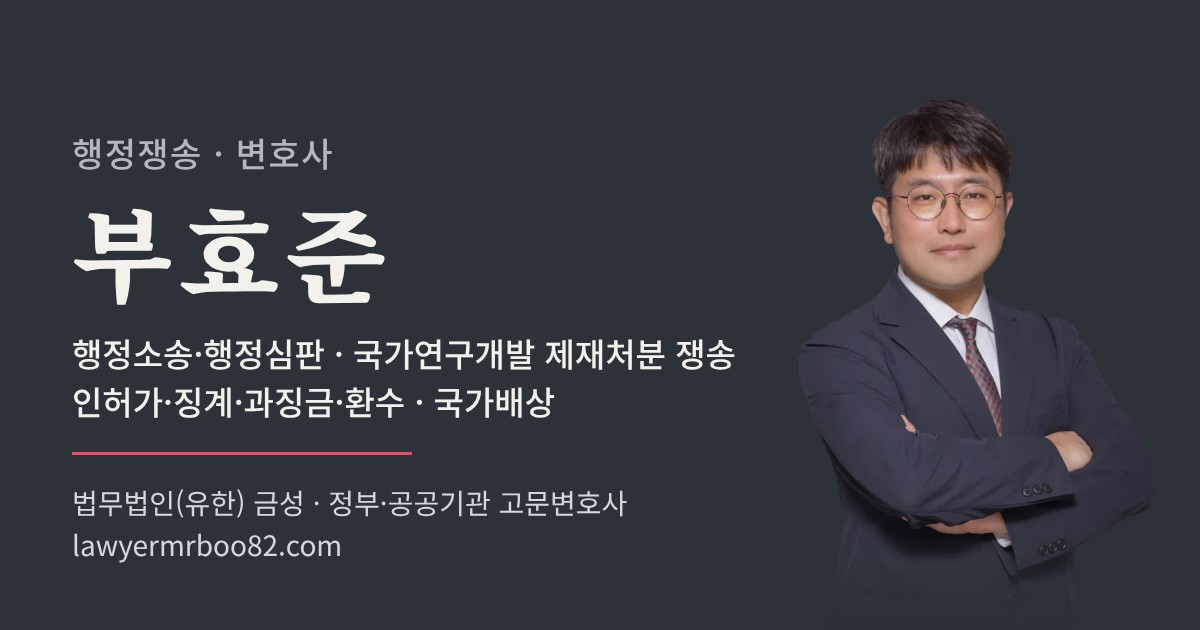
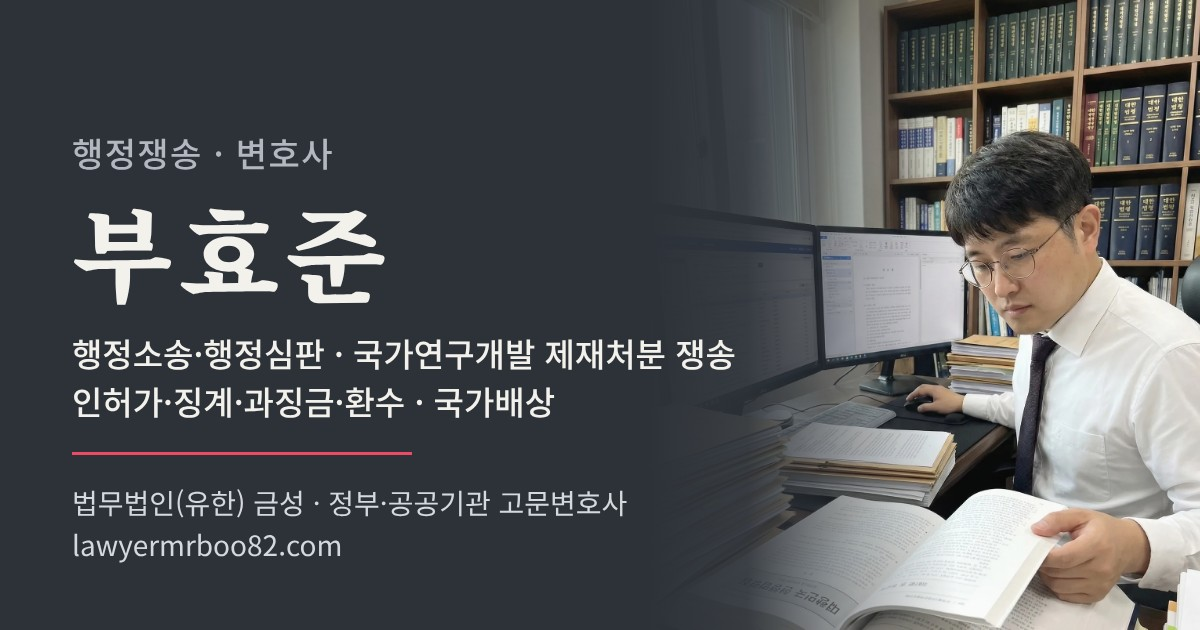
링크 공유 이미지(og-image.jpg)를 첫 화면과 같은 사무실 사진으로 다시 만듦
- work/og_image.html: 오른쪽 누끼 인물 사진 대신 photo-desk-tall.webp를 오른쪽 46%에 깔고 왼쪽을 바탕색으로 녹임(첫 화면 두 단 배치의 오른쪽 판과 같은 방식); 글은 그대로
- og-image.jpg 재생성(1200×630, 125KB)
- 메신저·SNS가 옛 이미지를 캐시하지 않도록 og:image·twitter:image·JSON-LD의 주소에 ?v=2(index·cases·주제 5장·build_cases.py 템플릿)

Claude-Session: https://claude.ai/code/session_01THUocaPHvPWUxxY9KQRVQu

diff --git a/work/og_image.html b/work/og_image.html
@@ -3,20 +3,29 @@
 <head>
 <meta charset="utf-8">
 <!-- 링크 공유용 이미지(og-image.jpg, 1200×630)의 본. work/og_image.py가 이 파일을 크로미움으로 찍어 저장한다.
-     바탕은 첫 화면과 같은 연한 먹색(--hero-bg #2d3239), 글자는 첫 화면의 밝은 색, 밑줄은 어두운 바탕용 크림슨(#ec4b63). -->
+     바탕은 첫 화면과 같은 연한 먹색(--hero-bg #2d3239), 글자는 첫 화면의 밝은 색, 밑줄은 어두운 바탕용 크림슨(#ec4b63).
+     2026. 10. 21. 13시 45분: 오른쪽 누끼 인물 사진(photo-hero.webp) 대신 첫 화면과 같은 사무실 사진(photo-desk-tall.webp — 서가·모니터·판례집을 읽는 모습)을
+     오른쪽 46%에 위아래로 꽉 차게 깔고 왼쪽 가장자리를 바탕색으로 녹인다(첫 화면 두 단 배치의 오른쪽 판과 같은 방식). 글꼴은 Google Fonts가 막힌 환경에서는
+     설치된 Noto Serif/Sans CJK KR로 찍힌다(같은 글꼴). -->
 <link rel="stylesheet" href="https://fonts.googleapis.com/css2?family=Noto+Serif+KR:wght@700;900&family=Noto+Sans+KR:wght@400;500;700&display=swap">
 <style>
   html, body { margin: 0; }
   body { width: 1200px; height: 630px; overflow: hidden; background: #2d3239; color: #f3f1ec; font-family: "Noto Sans KR", "Noto Sans CJK KR", "Malgun Gothic", sans-serif; -webkit-font-smoothing: antialiased; word-break: keep-all; }
   .card { position: relative; width: 1200px; height: 630px; }
-  .copy { position: absolute; left: 72px; top: 128px; width: 760px; }
+  .copy { position: absolute; left: 72px; top: 128px; width: 760px; z-index: 1; }   /* 오른쪽 사진 판 위에 */
   .eyebrow { margin: 0; font-size: 34px; font-weight: 500; letter-spacing: 0.04em; color: #b3b8c0; }
   .name { margin: 18px 0 0; font-family: "Noto Serif KR", "Noto Serif CJK KR", "Batang", serif; font-size: 104px; font-weight: 900; line-height: 1.05; letter-spacing: 0.06em; color: #f3f1ec; } /* 2026. 10. 21.: 홈페이지 이름(노토 명조 900, 자간)과 맞춤 */
   .fields { margin: 26px 0 0; font-size: 33px; font-weight: 500; line-height: 1.45; color: #f3f1ec; }
   .rule { width: 340px; height: 3px; margin: 26px 0 0; background: #ec4b63; }
   .firm { margin: 26px 0 0; font-size: 28px; font-weight: 400; line-height: 1.5; color: #d5d8dc; }
   .domain { margin: 0; font-size: 28px; font-weight: 400; line-height: 1.5; color: #d5d8dc; }
-  .portrait { position: absolute; right: -12px; bottom: 0; height: 580px; width: auto; }
+  .photo {
+    position: absolute; right: 0; top: 0; bottom: 0; width: 46%;
+    background-image:
+      linear-gradient(to right, rgba(45, 50, 57, 1) 0%, rgba(45, 50, 57, 0.92) 18%, rgba(45, 50, 57, 0.4) 38%, rgba(45, 50, 57, 0) 56%),
+      url("../photo-desk-tall.webp");
+    background-size: cover; background-position: 66% 20%; background-repeat: no-repeat;
+  }
 </style>
 </head>
 <body>
@@ -29,7 +38,7 @@
     <p class="firm">법무법인(유한) 금성 · 정부·공공기관 고문변호사</p>
     <p class="domain">lawyermrboo82.com</p>
   </div>
-  <img class="portrait" src="../photo-hero.webp" alt="">
+  <div class="photo"></div>
 </div>
 </body>
 </html>

diff --git a/index.html b/index.html
@@ -32,8 +32,8 @@
 <link rel="apple-touch-icon" href="/apple-touch-icon.png">
 <link rel="manifest" href="/site.webmanifest">
 <meta property="og:url" content="https://lawyermrboo82.com/">
-<meta property="og:image" content="https://lawyermrboo82.com/og-image.jpg">
-<meta property="og:image:secure_url" content="https://lawyermrboo82.com/og-image.jpg">
+<meta property="og:image" content="https://lawyermrboo82.com/og-image.jpg?v=2">
+<meta property="og:image:secure_url" content="https://lawyermrboo82.com/og-image.jpg?v=2">
 <meta property="og:image:type" content="image/jpeg">
 <meta property="og:image:alt" content="변호사 부효준 — 행정쟁송 · 국가연구개발 제재처분">
 <meta property="og:image:width" content="1200">
@@ -41,7 +41,7 @@
 <meta name="twitter:card" content="summary_large_image">
 <meta name="twitter:title" content="변호사 부효준 — 국가연구개발사업 참여제한·연구비 환수·제재부가금 · 행정쟁송">
 <meta name="twitter:description" content="처분의 과정과 변곡점을 제대로 아는 변호사입니다. 국가로펌 출신 · 소송·자문 약 3,300건.">
-<meta name="twitter:image" content="https://lawyermrboo82.com/og-image.jpg">
+<meta name="twitter:image" content="https://lawyermrboo82.com/og-image.jpg?v=2">
 <meta property="og:title" content="변호사 부효준 — 국가연구개발사업 참여제한·연구비 환수·제재부가금 · 행정쟁송">
 <meta property="og:description" content="제재처분을 심의하는 위원회의 위원이자 정부·공공기관 약 20곳의 고문변호사. 행정쟁송 한 분야에 쌓은 전문성으로 처분을 받은 연구자·기업·공무원을 대리하고, 출연금·보조금 관련 형사사건도 함께 변호합니다. 주요 수행 사례와 판결문 공개.">
 <script type="application/ld+json">
@@ -56,7 +56,7 @@
  ],
  "jobTitle": "변호사",
  "url": "https://lawyermrboo82.com/",
- "image": "https://lawyermrboo82.com/og-image.jpg",
+ "image": "https://lawyermrboo82.com/og-image.jpg?v=2",
  "worksFor": {
   "@type": "LegalService",
   "name": "법무법인(유한) 금성",

diff --git a/topics/rnd-stay-of-execution.html b/topics/rnd-stay-of-execution.html
@@ -18,11 +18,11 @@
 <meta property="og:url" content="https://lawyermrboo82.com/topics/rnd-stay-of-execution.html">
 <meta property="og:title" content="참여제한·제재부가금·환수처분 집행정지 사례 — 변호사 부효준">
 <meta property="og:description" content="본안 판결까지 처분의 효력을 멈추는 집행정지·효력정지 사례입니다. 취소소송을 제기해도 처분의 효력은 그대로 유지되므로, 법원이 집행정지를 받아들여야 판결 때까지 효력이 멈춥니다(「행정소송법」 제23조). 참여제한처럼 기간이 지나면 돌이킬 수 없는 처분, 진행 중인 과제가 중단되는 상황에…">
-<meta property="og:image" content="https://lawyermrboo82.com/og-image.jpg">
+<meta property="og:image" content="https://lawyermrboo82.com/og-image.jpg?v=2">
 <meta name="twitter:card" content="summary_large_image">
 <meta name="twitter:title" content="참여제한·제재부가금·환수처분 집행정지 사례 — 변호사 부효준">
 <meta name="twitter:description" content="본안 판결까지 처분의 효력을 멈추는 집행정지·효력정지 사례입니다. 취소소송을 제기해도 처분의 효력은 그대로 유지되므로, 법원이 집행정지를 받아들여야 판결 때까지 효력이 멈춥니다(「행정소송법」 제23조). 참여제한처럼 기간이 지나면 돌이킬 수 없는 처분, 진행 중인 과제가 중단되는 상황에…">
-<meta name="twitter:image" content="https://lawyermrboo82.com/og-image.jpg">
+<meta name="twitter:image" content="https://lawyermrboo82.com/og-image.jpg?v=2">
 <script async src="https://www.googletagmanager.com/gtag/js?id=G-STLB5BC2G2"></script>
 <script>
   window.dataLayer = window.dataLayer || [];

diff --git a/topics/rnd-penalty-surcharge.html b/topics/rnd-penalty-surcharge.html
@@ -18,11 +18,11 @@
 <meta property="og:url" content="https://lawyermrboo82.com/topics/rnd-penalty-surcharge.html">
 <meta property="og:title" content="제재부가금 부과처분 취소소송·집행정지 사례 — 변호사 부효준">
 <meta property="og:description" content="국가연구개발혁신법·보조금법·공공재정환수법에 따른 제재부가금 부과처분을 다툰 사례입니다. 「국가연구개발혁신법」 제32조 제1항은 이미 지급한 정부 연구개발비의 5배 범위에서 제재부가금을 부과할 수 있게 하고, 참여제한과 병과할 수 있습니다(같은 조 제2항). 「보조금 관리에 관한 법률」…">
-<meta property="og:image" content="https://lawyermrboo82.com/og-image.jpg">
+<meta property="og:image" content="https://lawyermrboo82.com/og-image.jpg?v=2">
 <meta name="twitter:card" content="summary_large_image">
 <meta name="twitter:title" content="제재부가금 부과처분 취소소송·집행정지 사례 — 변호사 부효준">
 <meta name="twitter:description" content="국가연구개발혁신법·보조금법·공공재정환수법에 따른 제재부가금 부과처분을 다툰 사례입니다. 「국가연구개발혁신법」 제32조 제1항은 이미 지급한 정부 연구개발비의 5배 범위에서 제재부가금을 부과할 수 있게 하고, 참여제한과 병과할 수 있습니다(같은 조 제2항). 「보조금 관리에 관한 법률」…">
-<meta name="twitter:image" content="https://lawyermrboo82.com/og-image.jpg">
+<meta name="twitter:image" content="https://lawyermrboo82.com/og-image.jpg?v=2">
 <script async src="https://www.googletagmanager.com/gtag/js?id=G-STLB5BC2G2"></script>
 <script>
   window.dataLayer = window.dataLayer || [];

diff --git a/topics/rnd-participation-restriction.html b/topics/rnd-participation-restriction.html
@@ -18,11 +18,11 @@
 <meta property="og:url" content="https://lawyermrboo82.com/topics/rnd-participation-restriction.html">
 <meta property="og:title" content="국가연구개발사업 참여제한처분 취소소송 사례 — 변호사 부효준">
 <meta property="og:description" content="국가연구개발사업 참여제한처분을 다툰 취소소송·무효확인소송과 집행정지 사례입니다. 참여제한은 「국가연구개발혁신법」 제32조 제1항에 따라 연구개발기관·연구책임자·연구자 등에게 10년 이내의 범위에서 국가연구개발활동 참여를 제한하는 처분입니다.">
-<meta property="og:image" content="https://lawyermrboo82.com/og-image.jpg">
+<meta property="og:image" content="https://lawyermrboo82.com/og-image.jpg?v=2">
 <meta name="twitter:card" content="summary_large_image">
 <meta name="twitter:title" content="국가연구개발사업 참여제한처분 취소소송 사례 — 변호사 부효준">
 <meta name="twitter:description" content="국가연구개발사업 참여제한처분을 다툰 취소소송·무효확인소송과 집행정지 사례입니다. 참여제한은 「국가연구개발혁신법」 제32조 제1항에 따라 연구개발기관·연구책임자·연구자 등에게 10년 이내의 범위에서 국가연구개발활동 참여를 제한하는 처분입니다.">
-<meta name="twitter:image" content="https://lawyermrboo82.com/og-image.jpg">
+<meta name="twitter:image" content="https://lawyermrboo82.com/og-image.jpg?v=2">
 <script async src="https://www.googletagmanager.com/gtag/js?id=G-STLB5BC2G2"></script>
 <script>
   window.dataLayer = window.dataLayer || [];

diff --git a/topics/rnd-recovery.html b/topics/rnd-recovery.html
@@ -18,11 +18,11 @@
 <meta property="og:url" content="https://lawyermrboo82.com/topics/rnd-recovery.html">
 <meta property="og:title" content="연구비(연구개발비)·정부출연금 환수처분 취소소송 사례 — 변호사 부효준">
 <meta property="og:description" content="연구개발비·정부출연금 환수처분과 환수금·회수금 채무를 다툰 사례입니다. 「국가연구개발혁신법」 제32조 제3항의 연구개발비 환수는 제재사유와 관련된 정부 연구개발비를 돌려받는 처분이고, 같은 법 제13조 제7항의 정산 회수금은 성격이 다릅니다.">
-<meta property="og:image" content="https://lawyermrboo82.com/og-image.jpg">
+<meta property="og:image" content="https://lawyermrboo82.com/og-image.jpg?v=2">
 <meta name="twitter:card" content="summary_large_image">
 <meta name="twitter:title" content="연구비(연구개발비)·정부출연금 환수처분 취소소송 사례 — 변호사 부효준">
 <meta name="twitter:description" content="연구개발비·정부출연금 환수처분과 환수금·회수금 채무를 다툰 사례입니다. 「국가연구개발혁신법」 제32조 제3항의 연구개발비 환수는 제재사유와 관련된 정부 연구개발비를 돌려받는 처분이고, 같은 법 제13조 제7항의 정산 회수금은 성격이 다릅니다.">
-<meta name="twitter:image" content="https://lawyermrboo82.com/og-image.jpg">
+<meta name="twitter:image" content="https://lawyermrboo82.com/og-image.jpg?v=2">
 <script async src="https://www.googletagmanager.com/gtag/js?id=G-STLB5BC2G2"></script>
 <script>
   window.dataLayer = window.dataLayer || [];

diff --git a/cases.html b/cases.html
@@ -28,15 +28,15 @@
 <meta property="og:url" content="https://lawyermrboo82.com/cases.html">
 <meta property="og:title" content="주요 수행 사례 258건 — 행정소송 · 국가연구개발 제재처분 판결문 · 변호사 부효준">
 <meta property="og:description" content="행정소송·행정심판·국가배상·손실보상·민사·형사 사건의 주요 수행 사례와 판결문.">
-<meta property="og:image" content="https://lawyermrboo82.com/og-image.jpg">
+<meta property="og:image" content="https://lawyermrboo82.com/og-image.jpg?v=2">
 <meta property="og:image:width" content="1200">
 <meta property="og:image:height" content="630">
-<meta property="og:image:secure_url" content="https://lawyermrboo82.com/og-image.jpg">
+<meta property="og:image:secure_url" content="https://lawyermrboo82.com/og-image.jpg?v=2">
 <meta property="og:image:type" content="image/jpeg">
 <meta property="og:image:alt" content="변호사 부효준 — 행정쟁송 · 국가연구개발 제재처분">
 <meta name="twitter:card" content="summary_large_image">
 <meta name="twitter:title" content="주요 수행 사례 258건 — 행정소송 · 국가연구개발 제재처분 판결문 · 변호사 부효준">
-<meta name="twitter:image" content="https://lawyermrboo82.com/og-image.jpg">
+<meta name="twitter:image" content="https://lawyermrboo82.com/og-image.jpg?v=2">
 <link rel="preconnect" href="https://fonts.googleapis.com">
 <link rel="preconnect" href="https://fonts.gstatic.com" crossorigin>
 <link rel="stylesheet" href="https://fonts.googleapis.com/css2?family=Noto+Serif+KR:wght@500;600;700;900&family=Noto+Sans+KR:wght@400;500;700&display=swap">

diff --git a/topics/rnd-party-litigation.html b/topics/rnd-party-litigation.html
@@ -18,11 +18,11 @@
 <meta property="og:url" content="https://lawyermrboo82.com/topics/rnd-party-litigation.html">
 <meta property="og:title" content="연구개발비 회수금·정산금 반환채무 당사자소송 사례 — 변호사 부효준">
 <meta property="og:description" content="정산 회수금·사업비 반환채무의 존부를 다툰 공법상 당사자소송과 관련 사례입니다. 국가연구개발사업 협약은 공법상 계약이어서, 전문기관의 정산 회수 통보에 따른 반환의무의 존부와 범위는 민사소송이 아니라 공법상 당사자소송으로 다툽니다.">
-<meta property="og:image" content="https://lawyermrboo82.com/og-image.jpg">
+<meta property="og:image" content="https://lawyermrboo82.com/og-image.jpg?v=2">
 <meta name="twitter:card" content="summary_large_image">
 <meta name="twitter:title" content="연구개발비 회수금·정산금 반환채무 당사자소송 사례 — 변호사 부효준">
 <meta name="twitter:description" content="정산 회수금·사업비 반환채무의 존부를 다툰 공법상 당사자소송과 관련 사례입니다. 국가연구개발사업 협약은 공법상 계약이어서, 전문기관의 정산 회수 통보에 따른 반환의무의 존부와 범위는 민사소송이 아니라 공법상 당사자소송으로 다툽니다.">
-<meta name="twitter:image" content="https://lawyermrboo82.com/og-image.jpg">
+<meta name="twitter:image" content="https://lawyermrboo82.com/og-image.jpg?v=2">
 <script async src="https://www.googletagmanager.com/gtag/js?id=G-STLB5BC2G2"></script>
 <script>
   window.dataLayer = window.dataLayer || [];

diff --git a/work/build_cases.py b/work/build_cases.py
@@ -436,7 +436,7 @@ def render_case_page(c, by_cat, cat_counts, details, published, modified):
     ims = images_of(c)
     title = c["title"]
     desc = description_of(c)
-    og_image = "%s/cases/%s" % (SITE, ims[0]["src"].rsplit("/", 1)[-1]) if ims else SITE + "/og-image.jpg"
+    og_image = "%s/cases/%s" % (SITE, ims[0]["src"].rsplit("/", 1)[-1]) if ims else SITE + "/og-image.jpg?v=2"
     parts = [p for p in [c.get("court"), c.get("party")] if p]
 
     ld = {
@@ -448,7 +448,7 @@ def render_case_page(c, by_cat, cat_counts, details, published, modified):
                 "mainEntityOfPage": url,
                 "headline": title,
                 "description": desc,
-                "image": ["%s/cases/%s" % (SITE, im["src"].rsplit("/", 1)[-1]) for im in ims] or [SITE + "/og-image.jpg"],
+                "image": ["%s/cases/%s" % (SITE, im["src"].rsplit("/", 1)[-1]) for im in ims] or [SITE + "/og-image.jpg?v=2"],
                 "articleSection": cat,
                 "keywords": ", ".join(d.get("keywords") or []) if d.get("keywords") else None,
                 "articleBody": " ".join([c.get("summary") or ""] + list(d.get("overview") or []) + list(d.get("claims") or []) + list(d.get("argument") or []) + list(d.get("holding") or []) + list(d.get("meaning") or [])).strip() or None,
@@ -677,11 +677,11 @@ def build_topic_page(t, matched, cat_counts):
 <meta property="og:url" content="{esc(url)}">
 <meta property="og:title" content="{esc(t["title"])}">
 <meta property="og:description" content="{esc(desc)}">
-<meta property="og:image" content="{SITE}/og-image.jpg">
+<meta property="og:image" content="{SITE}/og-image.jpg?v=2">
 <meta name="twitter:card" content="summary_large_image">
 <meta name="twitter:title" content="{esc(t["title"])}">
 <meta name="twitter:description" content="{esc(desc)}">
-<meta name="twitter:image" content="{SITE}/og-image.jpg">
+<meta name="twitter:image" content="{SITE}/og-image.jpg?v=2">
 {ga_snippet()}<link rel="preconnect" href="https://fonts.googleapis.com">
 <link rel="preconnect" href="https://fonts.gstatic.com" crossorigin>
 <link rel="stylesheet" href="https://fonts.googleapis.com/css2?family=Noto+Serif+KR:wght@500;600;700;900&family=Noto+Sans+KR:wght@400;500;700&display=swap">
